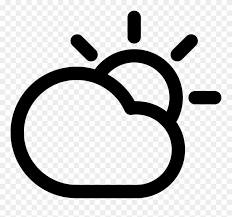
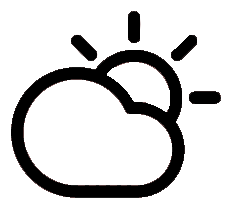
Added a hyperlink with credit of our api and fixed some images

diff --git a/src/application/ControllerOpening.java b/src/application/ControllerOpening.java
@@ -1,5 +1,7 @@
 package application;
 
+import java.awt.Desktop;
+import java.net.URI;
 import java.net.URL;
 import java.util.ResourceBundle;
 
@@ -9,18 +11,22 @@ import javafx.fxml.Initializable;
 import javafx.scene.Parent;
 import javafx.scene.Scene;
 import javafx.scene.control.Button;
+import javafx.scene.control.Hyperlink;
 import javafx.scene.control.Label;
 import javafx.scene.control.TextField;
 import javafx.scene.image.Image;
 import javafx.scene.input.KeyCode;
 import javafx.scene.layout.AnchorPane;
+import javafx.scene.text.Text;
 import javafx.stage.Stage;
 
 public class ControllerOpening implements Initializable {
 
 	// **************This is the String that is used for the zipcode
 	// **************like "02115" from the box.
-	public static String boxZip = "Didnt Work";
+	public static String boxZip = "";
+	@FXML
+	Hyperlink link=new Hyperlink("www.weather.com");
 	// the "Go" button for the opening fxml file..
 	@FXML
 	Button goButton;
@@ -30,8 +36,7 @@ public class ControllerOpening implements Initializable {
 	@FXML
 	AnchorPane AnchorOpen;
 	@FXML
-	Label labeltest;
-
+	Text hyperlink=new Text();
 	@FXML
 	// this is a method that will close ANY pane when called
 	private void closeButtonAction() {
@@ -57,6 +62,14 @@ public class ControllerOpening implements Initializable {
 	public void initialize(URL location, ResourceBundle resources) {
 		// Pretty easy to understand, when you click the gobutton it opens the main
 		// application.
+		
+		link.setOnMouseClicked(e ->{
+			try {
+			Desktop.getDesktop().browse(new URI("http://www.weather.com"));
+			}catch (Exception ex) {
+				
+			}
+		});
 		goButton.setOnAction(e -> {
 			try {
 				// **************************************
